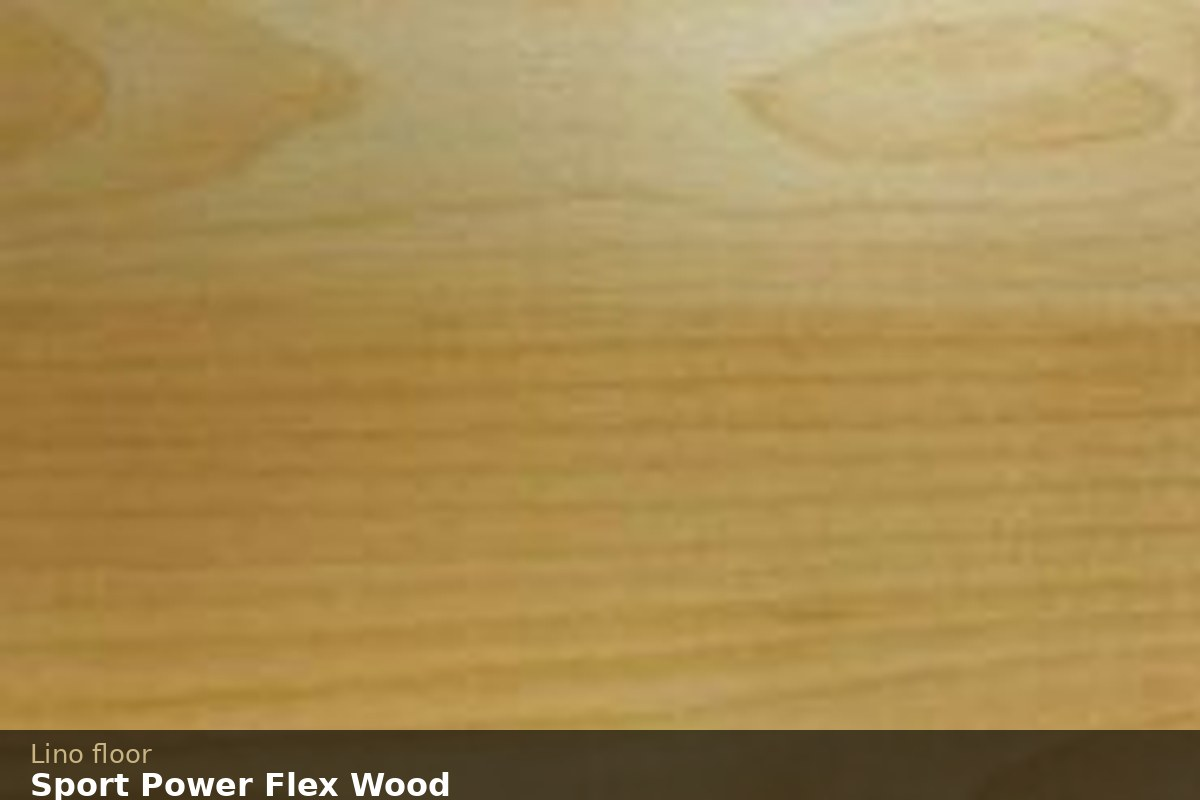
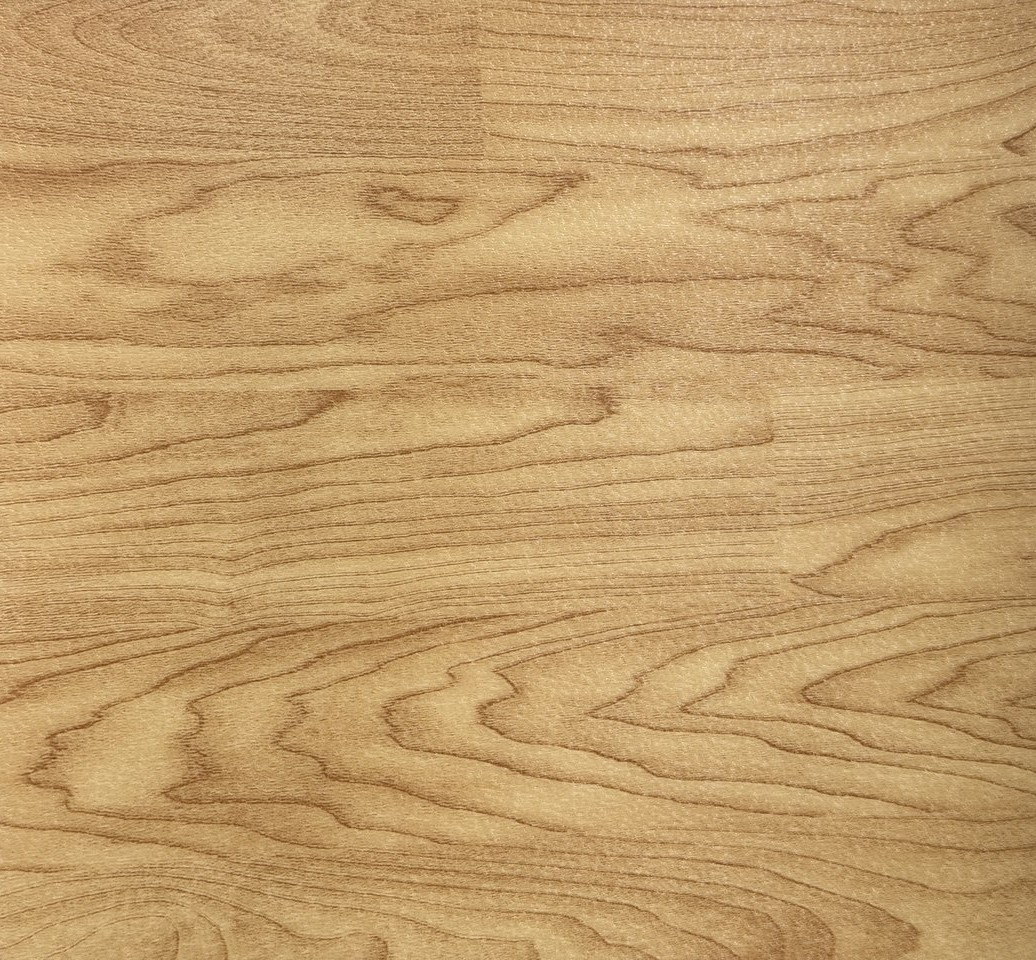
Add files via upload

diff --git a/index.html b/index.html
@@ -610,7 +610,16 @@
 </div></div></div><div class="coll-card reveal reveal-delay-1" data-cat="linoleum"><div class="coll-img"><img alt="Sport Power Flex" id="img-sport" src="images/linoleum/sport_wood_en.jpg" style="width:100%;height:220px;object-fit:cover;object-position:center;transition:transform 0.5s ease;display:block;"/></div><div class="coll-body"><div class="coll-category">Sports linoleum</div><div class="coll-name">Sport Power Flex</div><div class="coll-desc">Thickness 4.0 mm. Shock absorption 20.4–21.6%. Anti-slip value 84 BPN. For sports halls.</div><div class="coll-colors"><div class="color-dot active" onclick="switchColor(this,'img-sport','images/linoleum/sport_wood_en.jpg')" style="background:#c8a060" title="Wood"></div><div class="color-dot" onclick="switchColor(this,'img-sport','images/linoleum/sport_blue_en.jpg')" style="background:#5080b0" title="Blue"></div></div><div class="coll-footer"><a class="coll-link" href="#contact">Request sample →</a></div>
 <div class="doc-buttons" style="margin-top:1rem;padding-top:0.8rem;border-top:0.5px solid var(--border);">
 <button class="btn-specs" onclick="document.getElementById('sportModal').classList.add('open')">☰ Specifications</button>
-</div></div></div><div class="coll-card reveal" data-cat="pvc"><div class="coll-img"><img alt="Fortress" id="img-fortress" src="images/pvc/fortress_anthracite_en.jpg" style="width:100%;height:220px;object-fit:cover;object-position:center;transition:transform 0.5s ease;display:block;"/></div><div class="coll-body"><div class="coll-category">Vinyl tile</div><div class="coll-name">Fortress</div><div class="coll-desc">Luxury Vinyl Tile 2.5 mm thick. Class 23/31. Formaldehyde free.</div><div class="coll-colors"><div class="color-dot active" onclick="switchColor(this,'img-fortress','images/pvc/fortress_anthracite_en.jpg')" style="background:#4a4a4a" title="Anthracite"></div><div class="color-dot" onclick="switchColor(this,'img-fortress','images/pvc/fortress_calacatta_black_en.jpg')" style="background:#3a3a3a" title="Calacatta Black"></div><div class="color-dot" onclick="switchColor(this,'img-fortress','images/pvc/fortress_calacatta_white_en.jpg')" style="background:#e0e0d8" title="Calacatta White"></div></div><div class="coll-footer"><a class="coll-link" href="#contact">Request sample →</a></div></div></div><div class="coll-card reveal reveal-delay-1" data-cat="pvc"><div class="coll-img"><img alt="Urban" id="img-urban" src="images/pvc/urban_gray_en.jpg" style="width:100%;height:220px;object-fit:cover;object-position:center;transition:transform 0.5s ease;display:block;"/><div class="coll-badge">New 2025</div></div><div class="coll-body"><div class="coll-category">Vinyl tile</div><div class="coll-name">Urban</div><div class="coll-desc">Dry back vinyl tile 2.5 mm thick, 0.7 mm top layer. Class 34. Pure PVC 100%.</div><div class="coll-colors"><div class="color-dot active" onclick="switchColor(this,'img-urban','images/pvc/urban_gray_en.jpg')" style="background:#707070" title="Gray"></div><div class="color-dot" onclick="switchColor(this,'img-urban','images/pvc/urban_silver_en.jpg')" style="background:#a0a0a0" title="Silver"></div><div class="color-dot" onclick="switchColor(this,'img-urban','images/pvc/urban_alicante_en.jpg')" style="background:#706860" title="Alicante"></div></div><div class="coll-footer"><a class="coll-link" href="#contact">Request sample →</a></div></div></div><div class="coll-card reveal reveal-delay-2" data-cat="pvc"><div class="coll-img"><img alt="Loft" id="img-loft" src="images/pvc/loft_sevilla_en.jpg" style="width:100%;height:220px;object-fit:cover;object-position:center;transition:transform 0.5s ease;display:block;"/></div><div class="coll-body"><div class="coll-category">Vinyl tile</div><div class="coll-name">Loft</div><div class="coll-desc">Dry back vinyl tile 2.5 mm thick, 0.55 mm top layer. Class 34. MA embossing.</div><div class="coll-colors"><div class="color-dot active" onclick="switchColor(this,'img-loft','images/pvc/loft_sevilla_en.jpg')" style="background:#b0a090" title="Sevilla"></div><div class="color-dot" onclick="switchColor(this,'img-loft','images/pvc/loft_toledo_en.jpg')" style="background:#987040" title="Toledo"></div><div class="color-dot" onclick="switchColor(this,'img-loft','images/pvc/loft_valencia_en.jpg')" style="background:#c8b898" title="Valencia"></div></div><div class="coll-footer"><a class="coll-link" href="#contact">Request sample →</a></div></div></div>
+</div></div></div><div class="coll-card reveal" data-cat="pvc"><div class="coll-img"><img alt="Fortress" id="img-fortress" src="images/pvc/fortress_anthracite_en.jpg" style="width:100%;height:220px;object-fit:cover;object-position:center;transition:transform 0.5s ease;display:block;"/></div><div class="coll-body"><div class="coll-category">Vinyl tile</div><div class="coll-name">Fortress</div><div class="coll-desc">Luxury Vinyl Tile 2.5 mm thick. Class 23/31. Formaldehyde free.</div><div class="coll-colors"><div class="color-dot active" onclick="switchColor(this,'img-fortress','images/pvc/fortress_anthracite_en.jpg')" style="background:#4a4a4a" title="Anthracite"></div><div class="color-dot" onclick="switchColor(this,'img-fortress','images/pvc/fortress_calacatta_black_en.jpg')" style="background:#3a3a3a" title="Calacatta Black"></div><div class="color-dot" onclick="switchColor(this,'img-fortress','images/pvc/fortress_calacatta_white_en.jpg')" style="background:#e0e0d8" title="Calacatta White"></div></div><div class="coll-footer"><a class="coll-link" href="#contact">Request sample →</a></div>
+<div class="doc-buttons" style="margin-top:1rem;padding-top:0.8rem;border-top:0.5px solid var(--border);">
+<button class="btn-specs" onclick="document.getElementById('fortressModal').classList.add('open')">☰ Specifications</button>
+</div></div></div><div class="coll-card reveal reveal-delay-1" data-cat="pvc"><div class="coll-img"><img alt="Urban" id="img-urban" src="images/pvc/urban_gray_en.jpg" style="width:100%;height:220px;object-fit:cover;object-position:center;transition:transform 0.5s ease;display:block;"/><div class="coll-badge">New 2025</div></div><div class="coll-body"><div class="coll-category">Vinyl tile</div><div class="coll-name">Urban</div><div class="coll-desc">Dry back vinyl tile 2.5 mm thick, 0.7 mm top layer. Class 34. Pure PVC 100%.</div><div class="coll-colors"><div class="color-dot active" onclick="switchColor(this,'img-urban','images/pvc/urban_gray_en.jpg')" style="background:#707070" title="Gray"></div><div class="color-dot" onclick="switchColor(this,'img-urban','images/pvc/urban_silver_en.jpg')" style="background:#a0a0a0" title="Silver"></div><div class="color-dot" onclick="switchColor(this,'img-urban','images/pvc/urban_alicante_en.jpg')" style="background:#706860" title="Alicante"></div></div><div class="coll-footer"><a class="coll-link" href="#contact">Request sample →</a></div>
+<div class="doc-buttons" style="margin-top:1rem;padding-top:0.8rem;border-top:0.5px solid var(--border);">
+<button class="btn-specs" onclick="document.getElementById('urbanModal').classList.add('open')">☰ Specifications</button>
+</div></div></div><div class="coll-card reveal reveal-delay-2" data-cat="pvc"><div class="coll-img"><img alt="Loft" id="img-loft" src="images/pvc/loft_sevilla_en.jpg" style="width:100%;height:220px;object-fit:cover;object-position:center;transition:transform 0.5s ease;display:block;"/></div><div class="coll-body"><div class="coll-category">Vinyl tile</div><div class="coll-name">Loft</div><div class="coll-desc">Dry back vinyl tile 2.5 mm thick, 0.55 mm top layer. Class 34. MA embossing.</div><div class="coll-colors"><div class="color-dot active" onclick="switchColor(this,'img-loft','images/pvc/loft_sevilla_en.jpg')" style="background:#b0a090" title="Sevilla"></div><div class="color-dot" onclick="switchColor(this,'img-loft','images/pvc/loft_toledo_en.jpg')" style="background:#987040" title="Toledo"></div><div class="color-dot" onclick="switchColor(this,'img-loft','images/pvc/loft_valencia_en.jpg')" style="background:#c8b898" title="Valencia"></div></div><div class="coll-footer"><a class="coll-link" href="#contact">Request sample →</a></div>
+<div class="doc-buttons" style="margin-top:1rem;padding-top:0.8rem;border-top:0.5px solid var(--border);">
+<button class="btn-specs" onclick="document.getElementById('loftModal').classList.add('open')">☰ Specifications</button>
+</div></div></div>
 </section>
 <!-- CALCULATOR -->
 <section class="calculator" id="calculator">
@@ -774,7 +783,7 @@
 </div>
 </div>
 <div class="footer-bottom">
-<span>© 2020 Lino floor. All rights reserved.</span>
+<span>© 2025 Lino floor. All rights reserved.</span>
 <div style="display:flex; gap:2rem;"><a href="#">Privacy policy</a></div>
 </div>
 </footer>
@@ -871,7 +880,8 @@ function showCertModal(btn, modalId, num) {
     var modal = document.getElementById(modalId);
     modal.querySelectorAll('.cert-content').forEach(function(c) { c.classList.remove('active'); });
     modal.querySelectorAll('.cert-tab').forEach(function(t) { t.classList.remove('active'); });
-    var content = document.getElementById('cert' + modalId.replace('Modal','').toLowerCase() + '-' + num);
+    var prefix = modalId.replace('Modal','').toLowerCase();
+    var content = document.getElementById('cert' + prefix + '-' + num);
     if (content) content.classList.add('active');
     btn.classList.add('active');
 }
@@ -1006,74 +1016,8 @@ document.querySelectorAll('.coll-colors').forEach(c => {
 </div>
 </div>
 </div>
-<div class="modal-overlay" id="conceptModal">
-<div class="modal-box">
-<button class="modal-close" onclick="document.getElementById('conceptModal').classList.remove('open')">✕</button>
-<div>
-<div class="modal-title">Concept</div>
-<div class="modal-subtitle">Technical specifications</div>
-<table class="specs-table">
-<tr><td class="specs-section" colspan="2">Description</td></tr>
-<tr><td>Construction</td><td>compact heterogeneous</td></tr>
-<tr><td>Total thickness</td><td>2,0 mm</td></tr>
-<tr><td>Wear layer thickness</td><td>0,4 mm</td></tr>
-<tr><td>Width of roll</td><td>2 m</td></tr>
-<tr><td>Length of roll</td><td>20 m</td></tr>
-<tr><td>Total weight</td><td>3050 g/m²</td></tr>
-<tr><td class="specs-section" colspan="2">Classification</td></tr>
-<tr><td>European classification</td><td>32</td></tr>
-<tr><td>Dimensional stability</td><td>max. 0,13%</td></tr>
-<tr><td>Light fastness</td><td>&gt;6 grade</td></tr>
-<tr><td class="specs-section" colspan="2">Performance</td></tr>
-<tr><td>Abrasion group</td><td>T class</td></tr>
-<tr><td>Fire resistance</td><td>B1</td></tr>
-<tr><td>Slip resistance</td><td>R9</td></tr>
-<tr><td>Static indentation</td><td>0,16</td></tr>
-<tr><td>Chemical resistance</td><td>✓</td></tr>
-<tr><td>Castor chair resistance</td><td>✓</td></tr>
-<tr><td>Acoustic insulation</td><td>19 Db</td></tr>
-<tr><td>Bacterial resistance</td><td>✓</td></tr>
-</table>
-</div>
-</div>
-</div>
-<div class="modal-overlay" id="powerModal">
-<div class="modal-box">
-<button class="modal-close" onclick="document.getElementById('powerModal').classList.remove('open')">✕</button>
-<div>
-<div class="modal-title">Power</div>
-<div class="modal-subtitle">Technical specifications</div>
-<table class="specs-table">
-<tr><td class="specs-section" colspan="2">Main parameters</td></tr>
-<tr><td>Thickness</td><td>2.0 mm</td></tr>
-<tr><td>Width</td><td>2 m</td></tr>
-<tr><td>Length</td><td>20 m</td></tr>
-<tr><td>Weight</td><td>3150 g/m²</td></tr>
-<tr><td class="specs-section" colspan="2">Safety</td></tr>
-<tr><td>Fire rating</td><td>B1</td></tr>
-<tr><td>Toxic testing</td><td>Good</td></tr>
-<tr><td>Electrical resistance</td><td>&gt;10⁹⁻¹⁰ kv</td></tr>
-<tr><td class="specs-section" colspan="2">Performance</td></tr>
-<tr><td>Slip resistance dry</td><td>≥0.3</td></tr>
-<tr><td>Slip resistance wet</td><td>R9</td></tr>
-<tr><td>Abrasion group</td><td>P</td></tr>
-<tr><td>Abrasion resistance</td><td>≤0.18 mm</td></tr>
-<tr><td>Castor wheel test</td><td>Suitable</td></tr>
-<tr><td>Colour fastness</td><td>≥6</td></tr>
-<tr><td>Chemical products resistance</td><td>Good</td></tr>
-<tr><td>Dimensional stability</td><td>≤0.40%</td></tr>
-<tr><td>Flexibility</td><td>Excellent</td></tr>
-<tr><td>Residual indentation</td><td>≤0.10 mm</td></tr>
-<tr><td>Effect of castor chair</td><td>No delamination no cracks</td></tr>
-<tr><td>Hygiene treatment</td><td>Very good</td></tr>
-<tr><td>Impact sound reduction</td><td>Approx. +4 dB</td></tr>
-<tr><td>Indentation</td><td>≈0.09 Approx. 0.05 mm</td></tr>
-<tr><td>Thermal conductive</td><td>≈0.25 W/(m.K)</td></tr>
-<tr><td>Underfloor heating</td><td>Suitable max. 30°C</td></tr>
-</table>
-</div>
-</div>
-</div>
+
+
 <div class="modal-overlay" id="sportModal">
 <div class="modal-box">
 <button class="modal-close" onclick="document.getElementById('sportModal').classList.remove('open')">✕</button>
@@ -1138,6 +1082,191 @@ document.querySelectorAll('.coll-colors').forEach(c => {
 <tr><td>Commercial</td><td>Class 34 very heavy duty</td></tr>
 <tr><td>Industrial</td><td>Class 43 heavy duty</td></tr>
 </table>
+</div>
+</div>
+</div>
+<div class="modal-overlay" id="fortressModal">
+<div class="modal-box">
+<button class="modal-close" onclick="document.getElementById('fortressModal').classList.remove('open')">✕</button>
+<div>
+<div class="modal-title">Fortress</div>
+<div class="modal-subtitle">Technical specifications</div>
+<table class="specs-table">
+<tr><td class="specs-section" colspan="2">Description</td></tr>
+<tr><td>Construction</td><td>Luxury Vinyl Tile</td></tr>
+<tr><td>Dimension</td><td>304.8×609.6 mm / 180×1220 mm</td></tr>
+<tr><td>Total thickness</td><td>2.5 mm</td></tr>
+<tr><td>Wear layer thickness</td><td>0.3 mm</td></tr>
+<tr><td>Total weight</td><td>4.79 kg/m²</td></tr>
+<tr><td>Amount per box</td><td>3.716 m²</td></tr>
+<tr><td>Amount of pieces per box</td><td>20 pieces</td></tr>
+<tr><td>Amount per pallet</td><td>252.70 m²</td></tr>
+<tr><td class="specs-section" colspan="2">Classification</td></tr>
+<tr><td>European classification</td><td>Class 23/31</td></tr>
+<tr><td class="specs-section" colspan="2">Performance</td></tr>
+<tr><td>Abrasion group</td><td>T</td></tr>
+<tr><td>Residual indentation after exposure to heat</td><td>≤0.2 mm</td></tr>
+<tr><td>Dimensional stability (60°C/6Hr)</td><td>≤0.15%</td></tr>
+<tr><td>Thermal resistance</td><td>0.22 W/m·K</td></tr>
+<tr><td>Fire resistance</td><td>Bf1-s1</td></tr>
+<tr><td>Electrical resistance</td><td>✓</td></tr>
+<tr><td>Castor chair testing</td><td>✓</td></tr>
+<tr><td>Chemical resistance</td><td>Class 0</td></tr>
+<tr><td>Slip resistance</td><td>DS</td></tr>
+<tr><td>Formaldehyde emission</td><td>E0 (no Formaldehyde)</td></tr>
+<tr><td>Content of PCP</td><td>Does not contain</td></tr>
+<tr><td>VOC emission</td><td>Pass</td></tr>
+</table>
+</div>
+</div>
+</div>
+<div class="modal-overlay" id="urbanModal">
+<div class="modal-box">
+<button class="modal-close" onclick="document.getElementById('urbanModal').classList.remove('open')">✕</button>
+<div>
+<div class="modal-title">Urban</div>
+<div class="modal-subtitle">Technical specifications</div>
+<div class="cert-tabs">
+<button class="cert-tab active" onclick="showCertModal(this,'urbanModal',1)">177.8×1219.2 mm</button>
+<button class="cert-tab" onclick="showCertModal(this,'urbanModal',2)">304.8×609.6 mm</button>
+</div>
+<div class="cert-content active" id="certurban-1">
+<table class="specs-table">
+<tr><td class="specs-section" colspan="2">Product Information — 177.8×1219.2 mm</td></tr>
+<tr><td>Total thickness</td><td>2.5 mm</td></tr>
+<tr><td>Top layer</td><td>0.7 mm</td></tr>
+<tr><td>Embossing</td><td>MA embossing</td></tr>
+<tr><td>sqm per box</td><td>2.601 m²</td></tr>
+<tr><td>Number per box</td><td>12 pieces</td></tr>
+<tr><td>Amount per pallet</td><td>208.102 m²</td></tr>
+<tr><td>Amount per 20ft container</td><td>4162.05 m²</td></tr>
+<tr><td>CE code</td><td>23-0423</td></tr>
+<tr><td>Weight per m²</td><td>4.36 kg</td></tr>
+<tr><td>Weight per box</td><td>11.6 kg</td></tr>
+<tr><td>Weight per pallet</td><td>953 kg</td></tr>
+<tr><td class="specs-section" colspan="2">Performance</td></tr>
+<tr><td>Product kind</td><td>Dry back vinyl flooring</td></tr>
+<tr><td>Dimensional stability (60°C/6Hr)</td><td>Pass ≤0.15%</td></tr>
+<tr><td>Slip resistance</td><td>DS EN13893</td></tr>
+<tr><td>Residual indentation</td><td>Pass ≤0.2 mm</td></tr>
+<tr><td>Wear resistance</td><td>Group T</td></tr>
+<tr><td>Fire resistance</td><td>Bf1-s1</td></tr>
+<tr><td>Castor chair testing</td><td>Pass</td></tr>
+<tr><td>Thermal resistance</td><td>0.22 W/m·K</td></tr>
+<tr><td>Electrical resistance</td><td>Pass</td></tr>
+<tr><td>Grade level</td><td>34</td></tr>
+<tr><td>Pure PVC</td><td>100%</td></tr>
+<tr><td>Softener</td><td>DOTP (phthalate-free)</td></tr>
+<tr><td>Formaldehyde emission</td><td>E0 (no Formaldehyde)</td></tr>
+<tr><td>VOC emission</td><td>Pass</td></tr>
+</table>
+</div>
+<div class="cert-content" id="certurban-2">
+<table class="specs-table">
+<tr><td class="specs-section" colspan="2">Product Information — 304.8×609.6 mm</td></tr>
+<tr><td>Total thickness</td><td>2.5 mm</td></tr>
+<tr><td>Top layer</td><td>0.7 mm</td></tr>
+<tr><td>Embossing</td><td>MA embossing</td></tr>
+<tr><td>sqm per box</td><td>3.716 m²</td></tr>
+<tr><td>Number per box</td><td>20 pieces</td></tr>
+<tr><td>Amount per pallet</td><td>252.696 m²</td></tr>
+<tr><td>Amount per 20ft container</td><td>5053.92 m²</td></tr>
+<tr><td>CE code</td><td>23-0423</td></tr>
+<tr><td>Weight per m²</td><td>4.36 kg</td></tr>
+<tr><td>Weight per box</td><td>16.6 kg</td></tr>
+<tr><td>Weight per pallet</td><td>1150 kg</td></tr>
+<tr><td class="specs-section" colspan="2">Performance</td></tr>
+<tr><td>Product kind</td><td>Dry back vinyl flooring</td></tr>
+<tr><td>Dimensional stability (60°C/6Hr)</td><td>Pass ≤0.15%</td></tr>
+<tr><td>Slip resistance</td><td>DS EN13893</td></tr>
+<tr><td>Residual indentation</td><td>Pass ≤0.2 mm</td></tr>
+<tr><td>Wear resistance</td><td>Group T</td></tr>
+<tr><td>Fire resistance</td><td>Bf1-s1</td></tr>
+<tr><td>Castor chair testing</td><td>Pass</td></tr>
+<tr><td>Thermal resistance</td><td>0.22 W/m·K</td></tr>
+<tr><td>Electrical resistance</td><td>Pass</td></tr>
+<tr><td>Grade level</td><td>34</td></tr>
+<tr><td>Pure PVC</td><td>100%</td></tr>
+<tr><td>Softener</td><td>DOTP (phthalate-free)</td></tr>
+<tr><td>Formaldehyde emission</td><td>E0 (no Formaldehyde)</td></tr>
+<tr><td>VOC emission</td><td>Pass</td></tr>
+</table>
+</div>
+</div>
+</div>
+</div>
+<div class="modal-overlay" id="loftModal">
+<div class="modal-box">
+<button class="modal-close" onclick="document.getElementById('loftModal').classList.remove('open')">✕</button>
+<div>
+<div class="modal-title">Loft</div>
+<div class="modal-subtitle">Technical specifications</div>
+<div class="cert-tabs">
+<button class="cert-tab active" onclick="showCertModal(this,'loftModal',1)">177.8×1219.2 mm</button>
+<button class="cert-tab" onclick="showCertModal(this,'loftModal',2)">304.8×609.6 mm</button>
+</div>
+<div class="cert-content active" id="certloft-1">
+<table class="specs-table">
+<tr><td class="specs-section" colspan="2">Product Information — 177.8×1219.2 mm</td></tr>
+<tr><td>Total thickness</td><td>2.5 mm</td></tr>
+<tr><td>Top layer</td><td>0.55 mm</td></tr>
+<tr><td>Embossing</td><td>MA embossing</td></tr>
+<tr><td>sqm per box</td><td>3.901 m²</td></tr>
+<tr><td>Number per box</td><td>18 pieces</td></tr>
+<tr><td>Amount per pallet</td><td>234.06 m²</td></tr>
+<tr><td>Amount per 20ft container</td><td>4681.2 m²</td></tr>
+<tr><td>CE code</td><td>18-0570</td></tr>
+<tr><td>Weight per m²</td><td>4.36 kg</td></tr>
+<tr><td>Weight per box</td><td>17.35 kg</td></tr>
+<tr><td>Weight per pallet</td><td>1066 kg</td></tr>
+<tr><td class="specs-section" colspan="2">Performance</td></tr>
+<tr><td>Product kind</td><td>Dry back vinyl flooring</td></tr>
+<tr><td>Dimensional stability (60°C/6Hr)</td><td>Pass ≤0.15%</td></tr>
+<tr><td>Slip resistance</td><td>DS EN13893</td></tr>
+<tr><td>Residual indentation</td><td>Pass ≤0.15%</td></tr>
+<tr><td>Wear resistance</td><td>Group T</td></tr>
+<tr><td>Fire resistance</td><td>Bf1-s1</td></tr>
+<tr><td>Castor chair testing</td><td>Pass</td></tr>
+<tr><td>Thermal resistance</td><td>0.22 W/m·K</td></tr>
+<tr><td>Electrical resistance</td><td>Pass</td></tr>
+<tr><td>European classification</td><td>34</td></tr>
+<tr><td>Pure PVC</td><td>100%</td></tr>
+<tr><td>Softener</td><td>DOTP (phthalate-free)</td></tr>
+<tr><td>Formaldehyde emission</td><td>E0 (no Formaldehyde)</td></tr>
+<tr><td>VOC emission</td><td>Pass</td></tr>
+</table>
+</div>
+<div class="cert-content" id="certloft-2">
+<table class="specs-table">
+<tr><td class="specs-section" colspan="2">Product Information — 304.8×609.6 mm</td></tr>
+<tr><td>Total thickness</td><td>2.5 mm</td></tr>
+<tr><td>Top layer</td><td>0.55 mm</td></tr>
+<tr><td>Embossing</td><td>MA embossing</td></tr>
+<tr><td>sqm per box</td><td>3.716 m²</td></tr>
+<tr><td>Number per box</td><td>20 pieces</td></tr>
+<tr><td>Amount per pallet</td><td>237.83 m²</td></tr>
+<tr><td>Amount per 20ft container</td><td>4756.63 m²</td></tr>
+<tr><td>CE code</td><td>18-0570</td></tr>
+<tr><td>Weight per m²</td><td>4.36 kg</td></tr>
+<tr><td>Weight per box</td><td>16.6 kg</td></tr>
+<tr><td>Weight per pallet</td><td>1082 kg</td></tr>
+<tr><td class="specs-section" colspan="2">Performance</td></tr>
+<tr><td>Product kind</td><td>Dry back vinyl flooring</td></tr>
+<tr><td>Dimensional stability (60°C/6Hr)</td><td>Pass ≤0.15%</td></tr>
+<tr><td>Slip resistance</td><td>DS EN13893</td></tr>
+<tr><td>Residual indentation</td><td>Pass ≤0.15%</td></tr>
+<tr><td>Wear resistance</td><td>Group T</td></tr>
+<tr><td>Fire resistance</td><td>Bf1-s1</td></tr>
+<tr><td>Castor chair testing</td><td>Pass</td></tr>
+<tr><td>Thermal resistance</td><td>0.22 W/m·K</td></tr>
+<tr><td>Electrical resistance</td><td>Pass</td></tr>
+<tr><td>European classification</td><td>34</td></tr>
+<tr><td>Pure PVC</td><td>100%</td></tr>
+<tr><td>Softener</td><td>DOTP (phthalate-free)</td></tr>
+<tr><td>Formaldehyde emission</td><td>E0 (no Formaldehyde)</td></tr>
+<tr><td>VOC emission</td><td>Pass</td></tr>
+</table>
+</div>
 </div>
 </div>
 </div>
